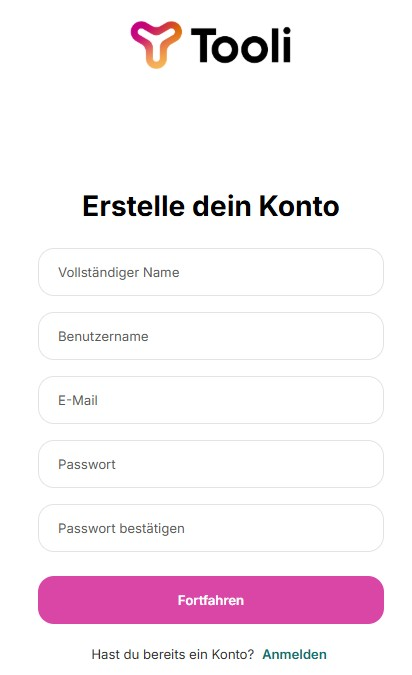
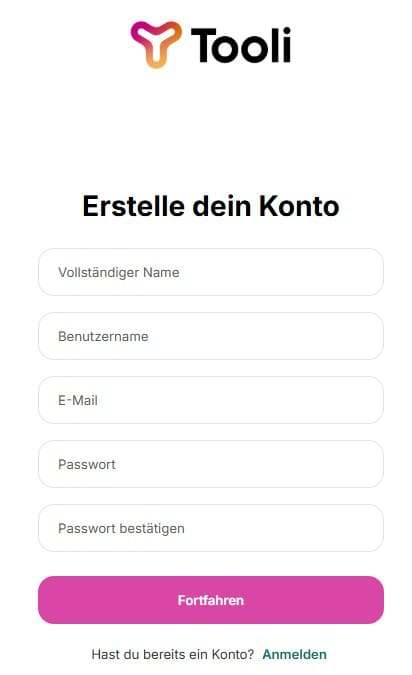
Compressed all images and replace outdated registration screen in German documentation

diff --git a/de/welcome/quick-start-guide.md b/de/welcome/quick-start-guide.md
@@ -113,7 +113,7 @@ next_page: "what-is-tooli"
     Es gibt 2 Optionen, um ein Konto zu erstellen:
 
     <Frame caption="Registrieren Sie sich mit E-Mail und Passwort ('Aanmelden'), oder melden Sie sich über Buildwise an">
-      ![Tooli Registrierungsbildschirm](/assets/onboarding/de/tooli_homescreen_registration.png)
+      ![Tooli Registrierungsbildschirm](/assets/onboarding/de/tooli_homescreen_registration.jpg)
     </Frame>
 
     <AccordionGroup>
